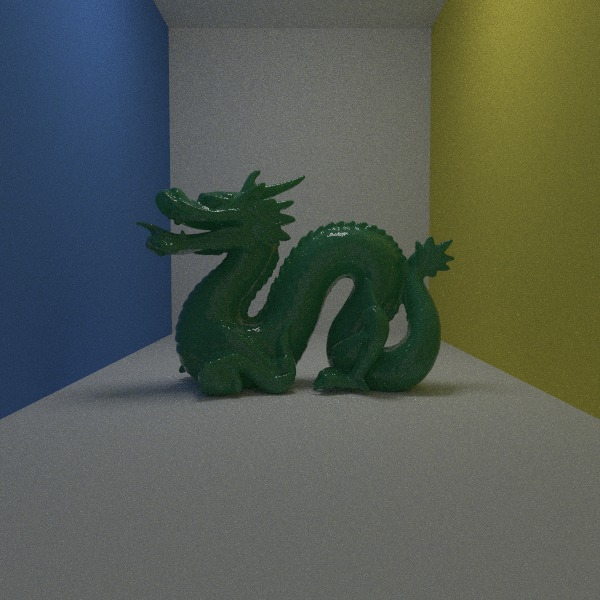
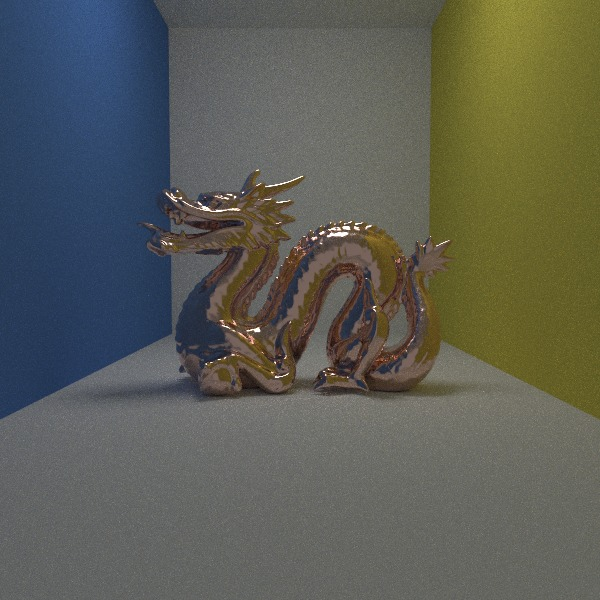
Add depth of field (thin-lens) to chess scene
Thread optional lensRadius + focusDistance through the scene import
interface. In the render loop, sample a point on the aperture disk
(uniform in r², so uniform in area), compute the focal point along the
pinhole ray at focusDistance, and fire the ray from the lens sample
toward the focal point.

Chess scene: lensRadius=0.15, focusDistance=3.6 — focuses on the front
row pieces (queen/kings at z≈0.5); the back half of the board and the
pawns at row 2 blur out.

Also brings in all prior improvements from the improvement branch:
BVH, progressive rendering, Disney metallic BRDF, correct NEE,
fixed cosine-weighted sampling, Cornell box, refraction, backrooms,
dragon, and chess scenes.

Claude-Session: https://claude.ai/code/session_01HhUgJEwnXw2VDupPuAnZvG

Changed region(s): [[0.24, 0.27, 0.75, 0.66]]

diff --git a/src/tracePaths.ts b/src/tracePaths.ts
@@ -23,6 +23,8 @@ let cameraStart!: Point;
 let rotateCamera!: (dir: Vector) => Vector;
 let skyFn: ((dir: Vector) => Color) | undefined;
 let skyImageData: ImageData | undefined;
+let lensRadius = 0;
+let focusDistance = 0;
 /* eslint-enable prefer-const */
 
 async function importScene(name: string): Promise<{
@@ -31,6 +33,8 @@ async function importScene(name: string): Promise<{
   sceneObjects: SceneObject[];
   skyFn?: (dir: Vector) => Color;
   skyImageKey?: string;
+  lensRadius?: number;
+  focusDistance?: number;
 }> {
   let mod: any;
   if (name === "cornellBox")         mod = await import("./scenes/cornellBox.js");
@@ -661,6 +665,12 @@ onmessage = async (e: MessageEvent) => {
   rotateCamera = scene.rotateCamera;
   skyFn        = scene.skyFn;
   skyImageData = scene.skyImageKey ? (imageMaps[scene.skyImageKey] as ImageData | undefined) : undefined;
+  lensRadius   = scene.lensRadius   ?? 0;
+  focusDistance = scene.focusDistance ?? 0;
+
+  // Camera basis vectors for DOF lens-disk sampling.
+  const cameraRight = rotateCamera(new Vector(1, 0, 0));
+  const cameraUp    = rotateCamera(new Vector(0, 1, 0));
 
   // Precompute base ray directions for the tile — same for every pass.
   type PixelDir = { i: number; j: number; rotatedDir: Vector };
@@ -686,7 +696,32 @@ onmessage = async (e: MessageEvent) => {
         rotatedDir.y + yJitter,
         rotatedDir.z
       );
-      const color = traceRay({ ray: new Ray(cameraStart, jitteredDir), imageMaps, i, j });
+
+      let rayOrigin: Point = cameraStart;
+      let rayDir: Vector = jitteredDir;
+
+      if (lensRadius > 0 && focusDistance > 0) {
+        // Thin-lens DOF: sample a point on the aperture disk, then aim at
+        // the focal point (where the pinhole ray hits the focus plane).
+        const r = Math.sqrt(Math.random()) * lensRadius;
+        const phi = Math.random() * 2 * Math.PI;
+        const dx = r * Math.cos(phi);
+        const dy = r * Math.sin(phi);
+        rayOrigin = new Point(
+          cameraStart.x + cameraRight.x * dx + cameraUp.x * dy,
+          cameraStart.y + cameraRight.y * dx + cameraUp.y * dy,
+          cameraStart.z + cameraRight.z * dx + cameraUp.z * dy
+        );
+        const dn = jitteredDir.normalize();
+        const fp = new Point(
+          cameraStart.x + dn.x * focusDistance,
+          cameraStart.y + dn.y * focusDistance,
+          cameraStart.z + dn.z * focusDistance
+        );
+        rayDir = new Vector(fp.x - rayOrigin.x, fp.y - rayOrigin.y, fp.z - rayOrigin.z);
+      }
+
+      const color = traceRay({ ray: new Ray(rayOrigin, rayDir), imageMaps, i, j });
       pixelColors.push({ i, j, r: color.r, g: color.g, b: color.b });
     }
 

diff --git a/src/scenes/chess.ts b/src/scenes/chess.ts
@@ -16,6 +16,11 @@ export const cameraStart = new Point(0, 1.6, -3);
 export const rotateCamera = (dir: Vector) =>
   dir.multiplyWith3x3Matrix(getRotationXMatrix(14));
 
+// Depth of field: focus on the front row (z≈0.5, ~3.6 units from camera).
+// Back of board (z≈7.5) and pawns at row 2 will be softly blurred.
+export const lensRadius = 0.15;
+export const focusDistance = 3.6;
+
 // Sky image key: main thread loads this and passes it to workers in imageMaps.
 export const skyImageKey = "sky";
 